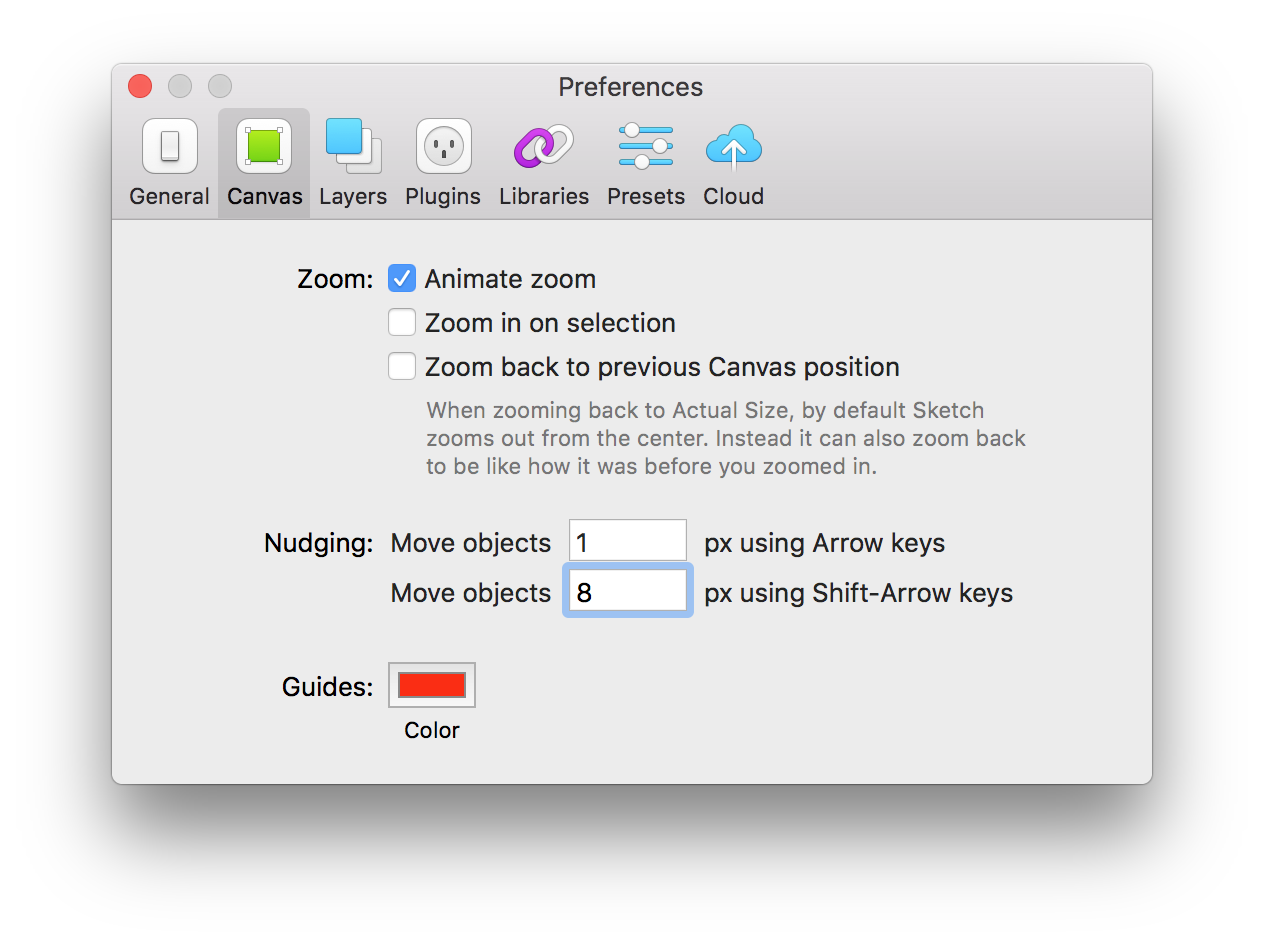
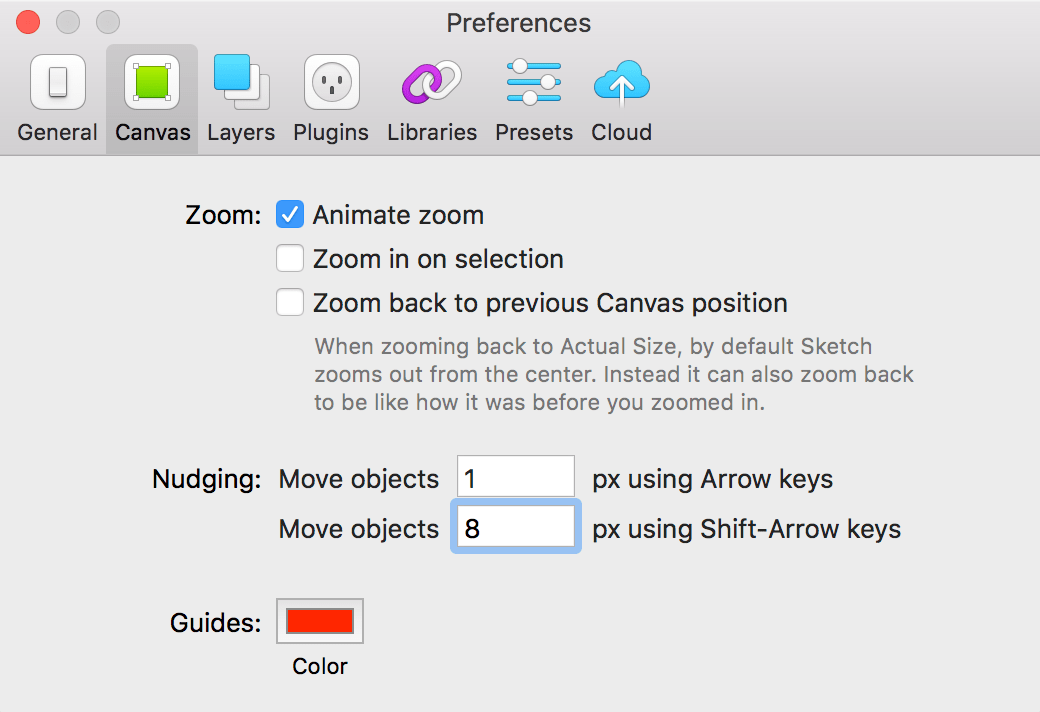
Updated readme

Changed region(s): [[0.0, 0.0, 1.0, 0.9579]]

diff --git a/README.md b/README.md
@@ -12,6 +12,13 @@ Customize [variables](scss/_variables.scss) to your liking.
 
 Include scss in your build or use the compiled css file with the default settings.
 
+### Sketch
+This repo also contains a sketch-file with an 8 point grid. [Download sketchfile](https://github.com/sethne/8-point-grid/raw/master/media/8-point-grid.sketch)
+
+To nudge a element in sketch 8px, go to `Sketch -> Preferences` and set move objects to 8 in the last input.
+
+![sketch canvas](media/sketch-canvas.png)
+
 ### What is a 8 point grid?
 - https://spec.fm/specifics/8-pt-grid
 - https://blog.prototypr.io/the-8pt-grid-consistent-spacing-in-ui-design-with-sketch-577e4f0fd520
